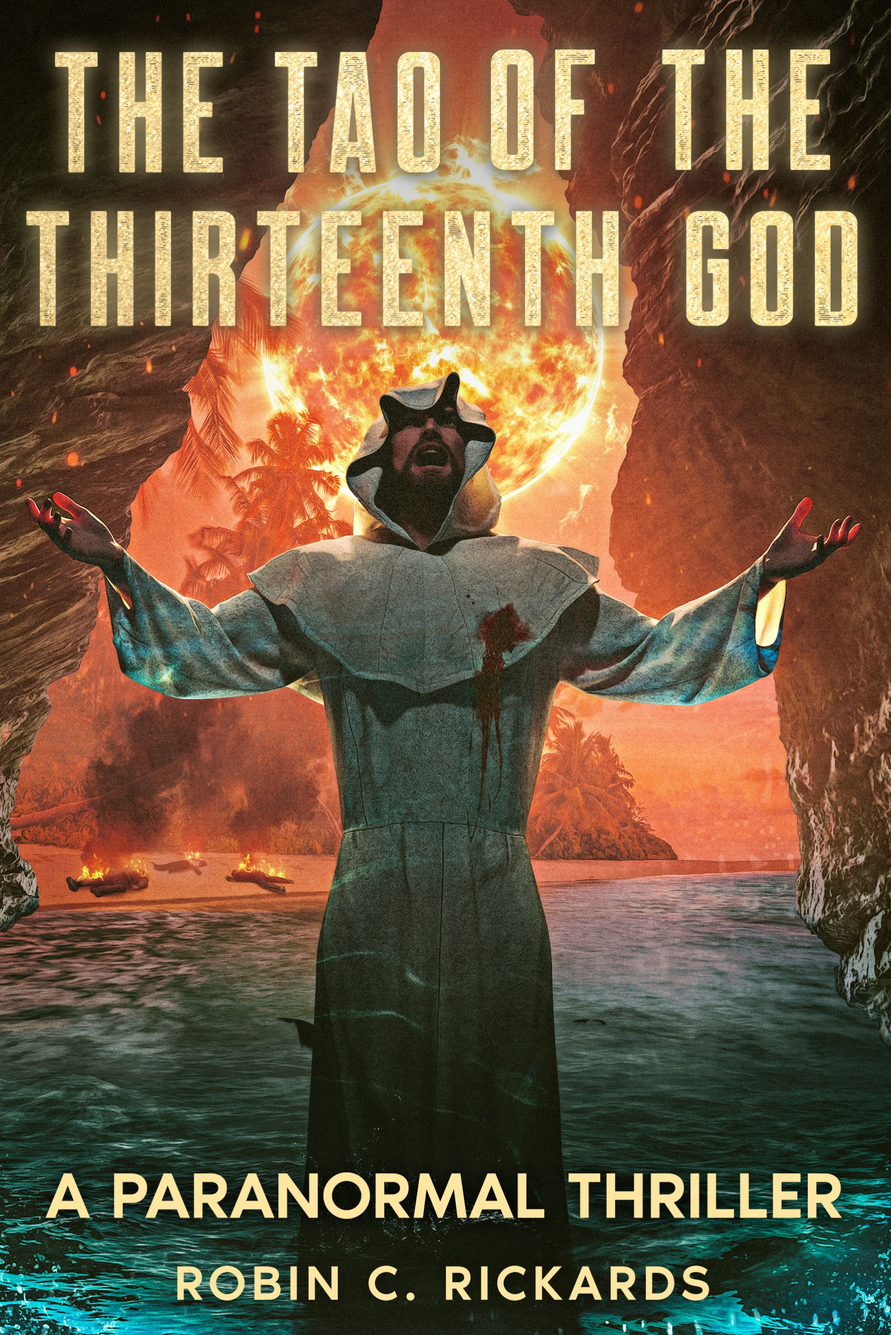
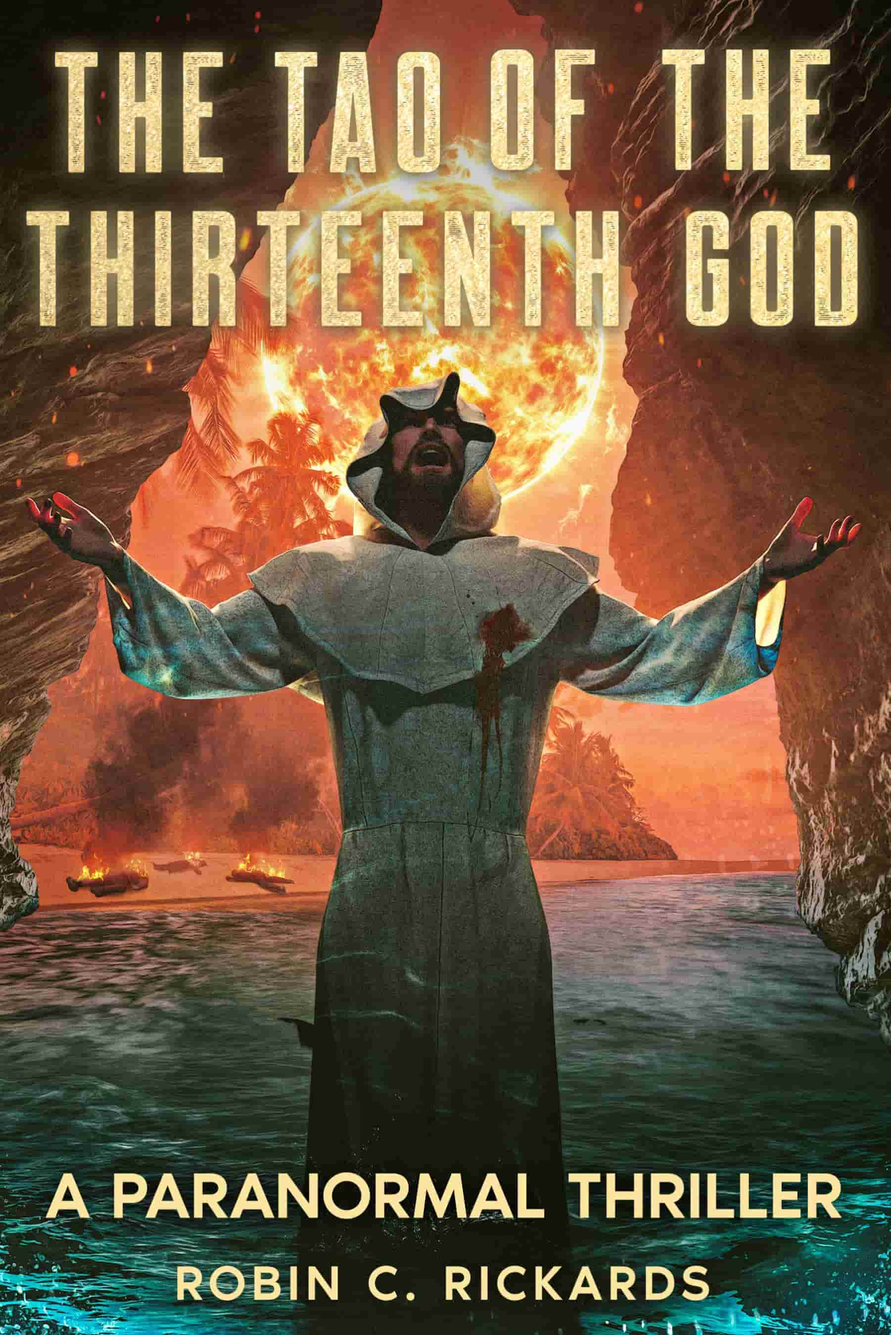
Image optimization

diff --git a/src/app/page.tsx b/src/app/page.tsx
@@ -11,7 +11,7 @@ export default function Home() {
     <main id="top">
       <section id="home">
         <Hero
-          imageUrl="/images/ChimInsightBanner.png"
+          imageUrl="/images/ChimInsightBanner.jpg"
           altText="Imagen de fondo de un desierto con elementos de ciencia ficción y mitología"
           sealLogoUrl="/images/seal-chimeralInsight.png"
           sealLogoAltText="ChimeralInsight Seal Logo"
@@ -23,7 +23,7 @@ export default function Home() {
       <BooksCarousel />
 
       <section id="about">
-        <AboutAuthor photoUrl="/images/author-robin.png" />
+        <AboutAuthor photoUrl="/images/author-robin.jpg" />
       </section>
 
       <section id="books">

diff --git a/src/app/presskit/page.tsx b/src/app/presskit/page.tsx
@@ -85,7 +85,7 @@ export default function PresskitPage() {
                   <div className="md:col-span-2">
                     <div className="relative w-full aspect-square rounded-xl overflow-hidden bg-white ring-1 ring-black/5">
                       <Image
-                        src={withBasePath("/images/author-robin.png")} // ✅
+                        src={withBasePath("/images/author-robin.jpg")} // ✅
                         alt="Author headshot"
                         fill
                         className="object-contain"

diff --git a/src/components/AboutAuthor.tsx b/src/components/AboutAuthor.tsx
@@ -13,7 +13,7 @@ interface AboutAuthorProps {
 
 export default function AboutAuthor({
   name = "Robin C. Rickards",
-  photoUrl = "/images/author-robin.png",
+  photoUrl = "/images/author-robin.jpg",
   sealUrl = "/images/robinr-logo.png",
 }: AboutAuthorProps) {
   return (
